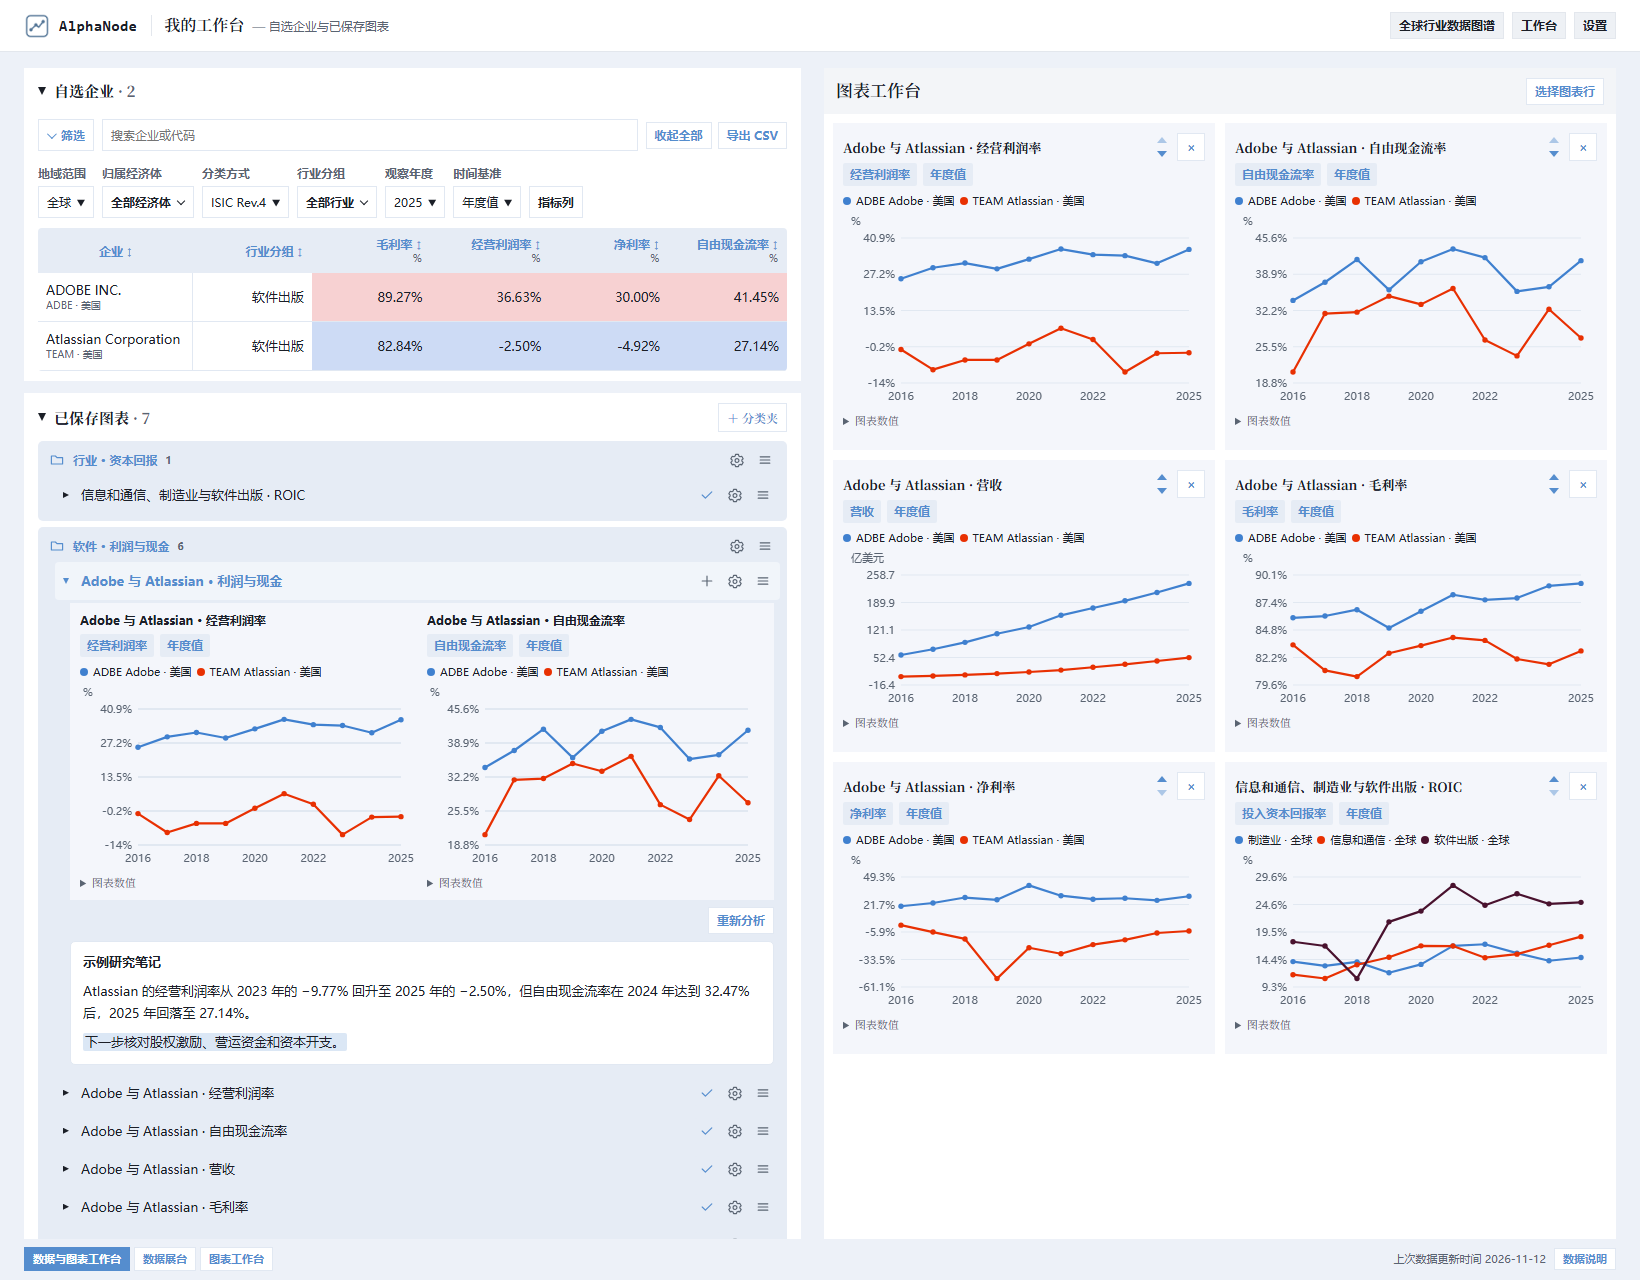
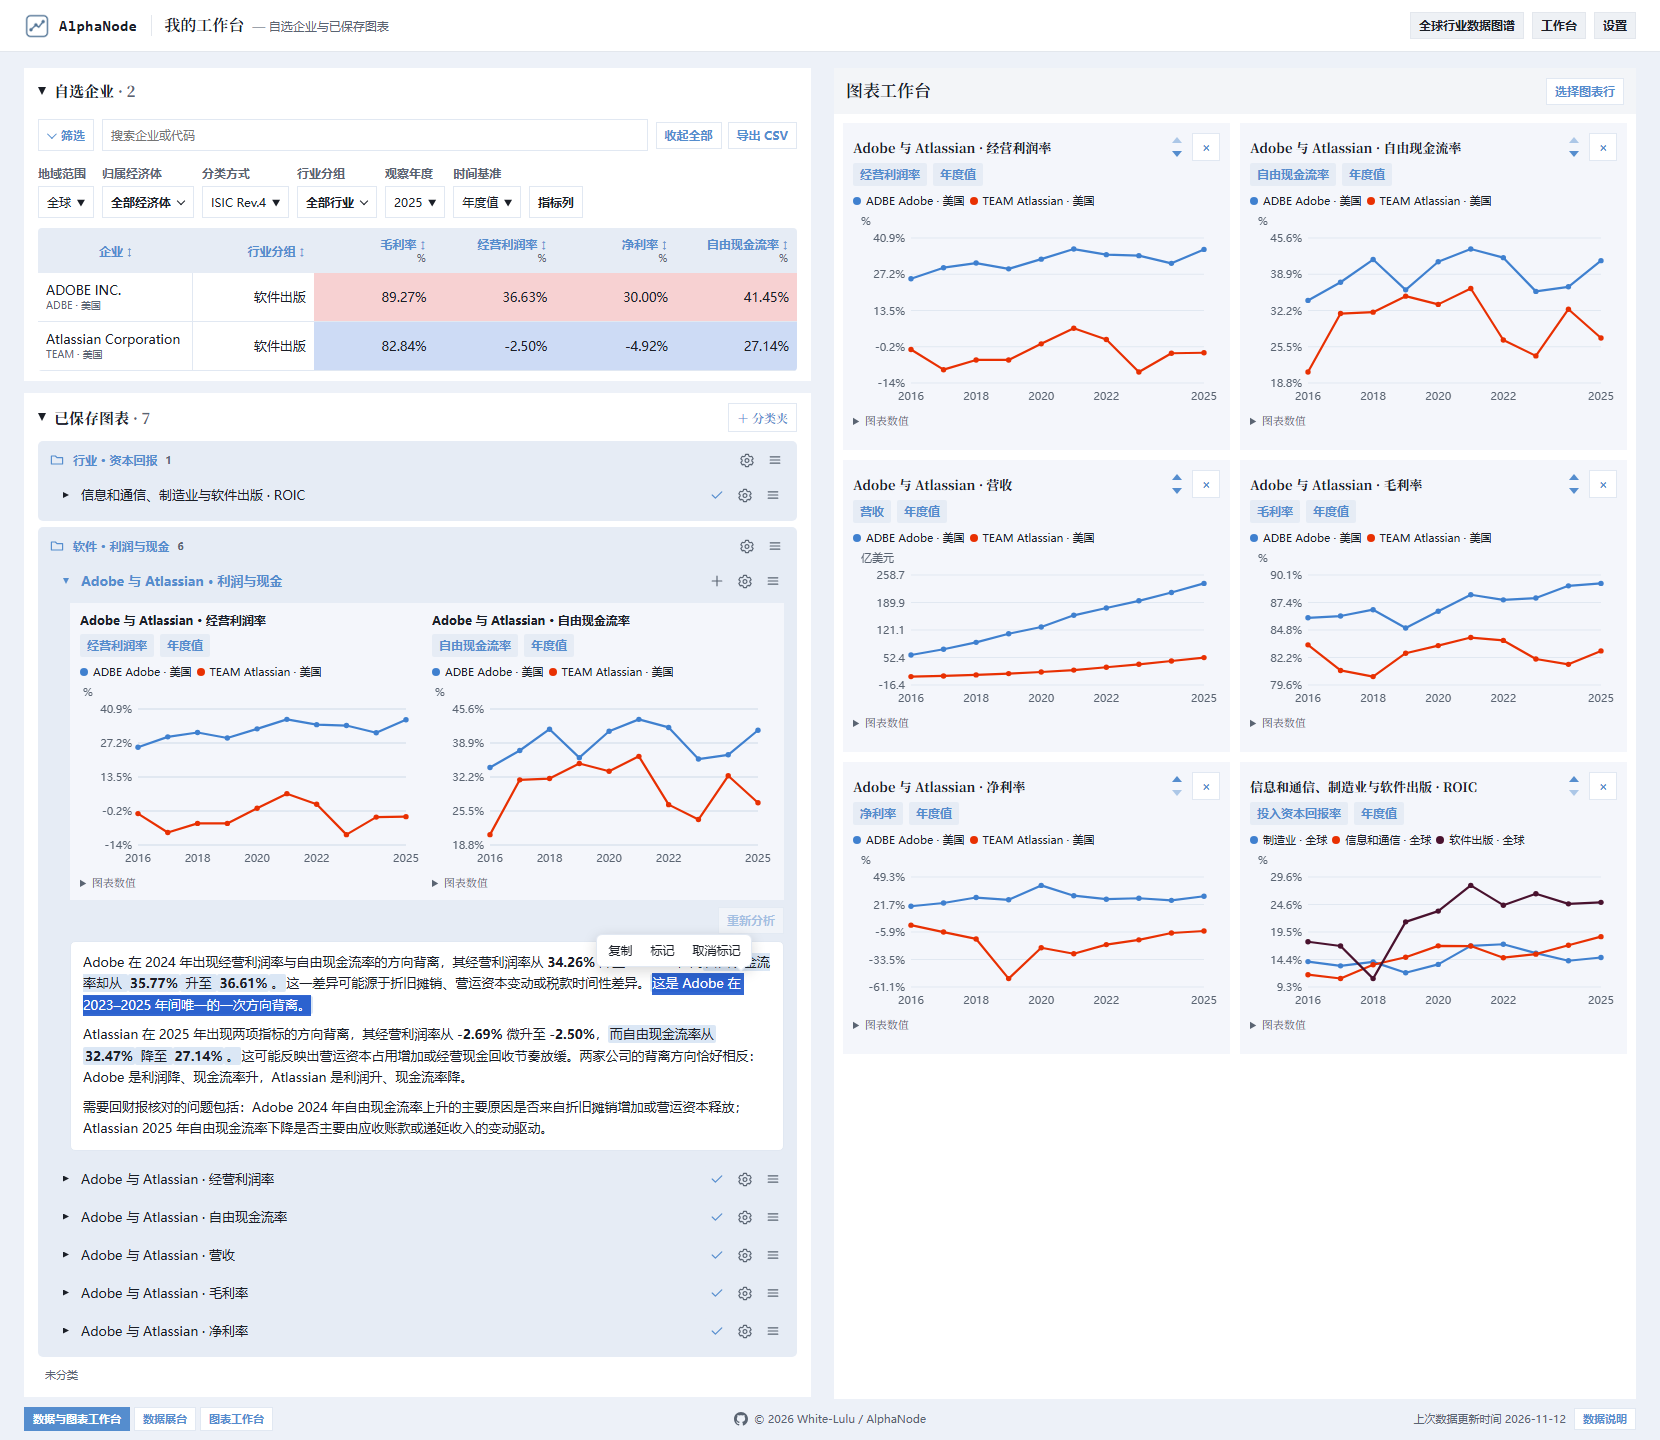
Center diagram labels and show the live chart analysis

diff --git a/README.md b/README.md
@@ -114,11 +114,13 @@ Adobe 的两条线还受同一件事影响。2024 财年的 **10 亿美元 Figma
 
 可以对合并图表发起 AI 分析。小八这样提问。
 
-> 对比两家公司 2023–2025 年经营利润率与自由现金流率的变化。指出哪一年两项指标方向不同，列出图中数值，并给出两条需要回财报核对的问题。
+> 对比 Adobe 和 Atlassian 在 2023–2025 年经营利润率与自由现金流率的变化。分别指出两家公司在哪一年出现方向背离，再提出两条需要回财报核对的问题。
 
-截图里展开的是按图中数据写的**示例研究笔记**。小八为 Atlassian 留下三组复查项。先观察云订阅收入和云订阅年化收入超过 1 万美元的客户数，找研发成果进入商业使用的线索。再对照研发费率、毛利率和经营利润率，判断收入增长后利润率是否改善。最后用自由现金流、股权激励和递延收入变动核对现金表现。研发到收入可能间隔数年，合并财报也很少按项目披露成本和收益，适合先跟踪这组指标的连续变化。 [Atlassian 2025 财年 10-K · 关键经营指标](https://www.sec.gov/Archives/edgar/data/1650372/000165037225000036/team-20250630.htm)
+截图展示了方舟模型的完整回复。小八用荧光笔标记了两家企业自由现金流率的变化，又选中 Adobe 的一句分析，打开「复制、标记、取消标记」菜单。回复里提到的折旧摊销、营运资金和收款节奏可以作为回查财报的线索。
 
-![我的工作台。左侧是 Adobe、Atlassian、合并图表和示例研究笔记。右侧首行对照两家公司的经营利润率与自由现金流率，下面还有营收、毛利率、净利率和行业 ROIC。](docs/images/workbench.png)
+![我的工作台。左侧完整展示实际 API 回复、两处手动高亮和选中文字后的操作菜单。右侧对照经营利润率、自由现金流率及其他指标。](docs/images/workbench.png)
+
+小八为 Atlassian 留下三组复查项。先观察云订阅收入和云订阅年化收入超过 1 万美元的客户数，找研发成果进入商业使用的线索。再对照研发费率、毛利率和经营利润率，判断收入增长后利润率是否改善。最后用自由现金流、股权激励和递延收入变动核对现金表现。研发到收入可能间隔数年，合并财报也很少按项目披露成本和收益，适合先跟踪这组指标的连续变化。 [Atlassian 2025 财年 10-K · 关键经营指标](https://www.sec.gov/Archives/edgar/data/1650372/000165037225000036/team-20250630.htm)
 
 ## 4. 数据来源与计算方法
 
